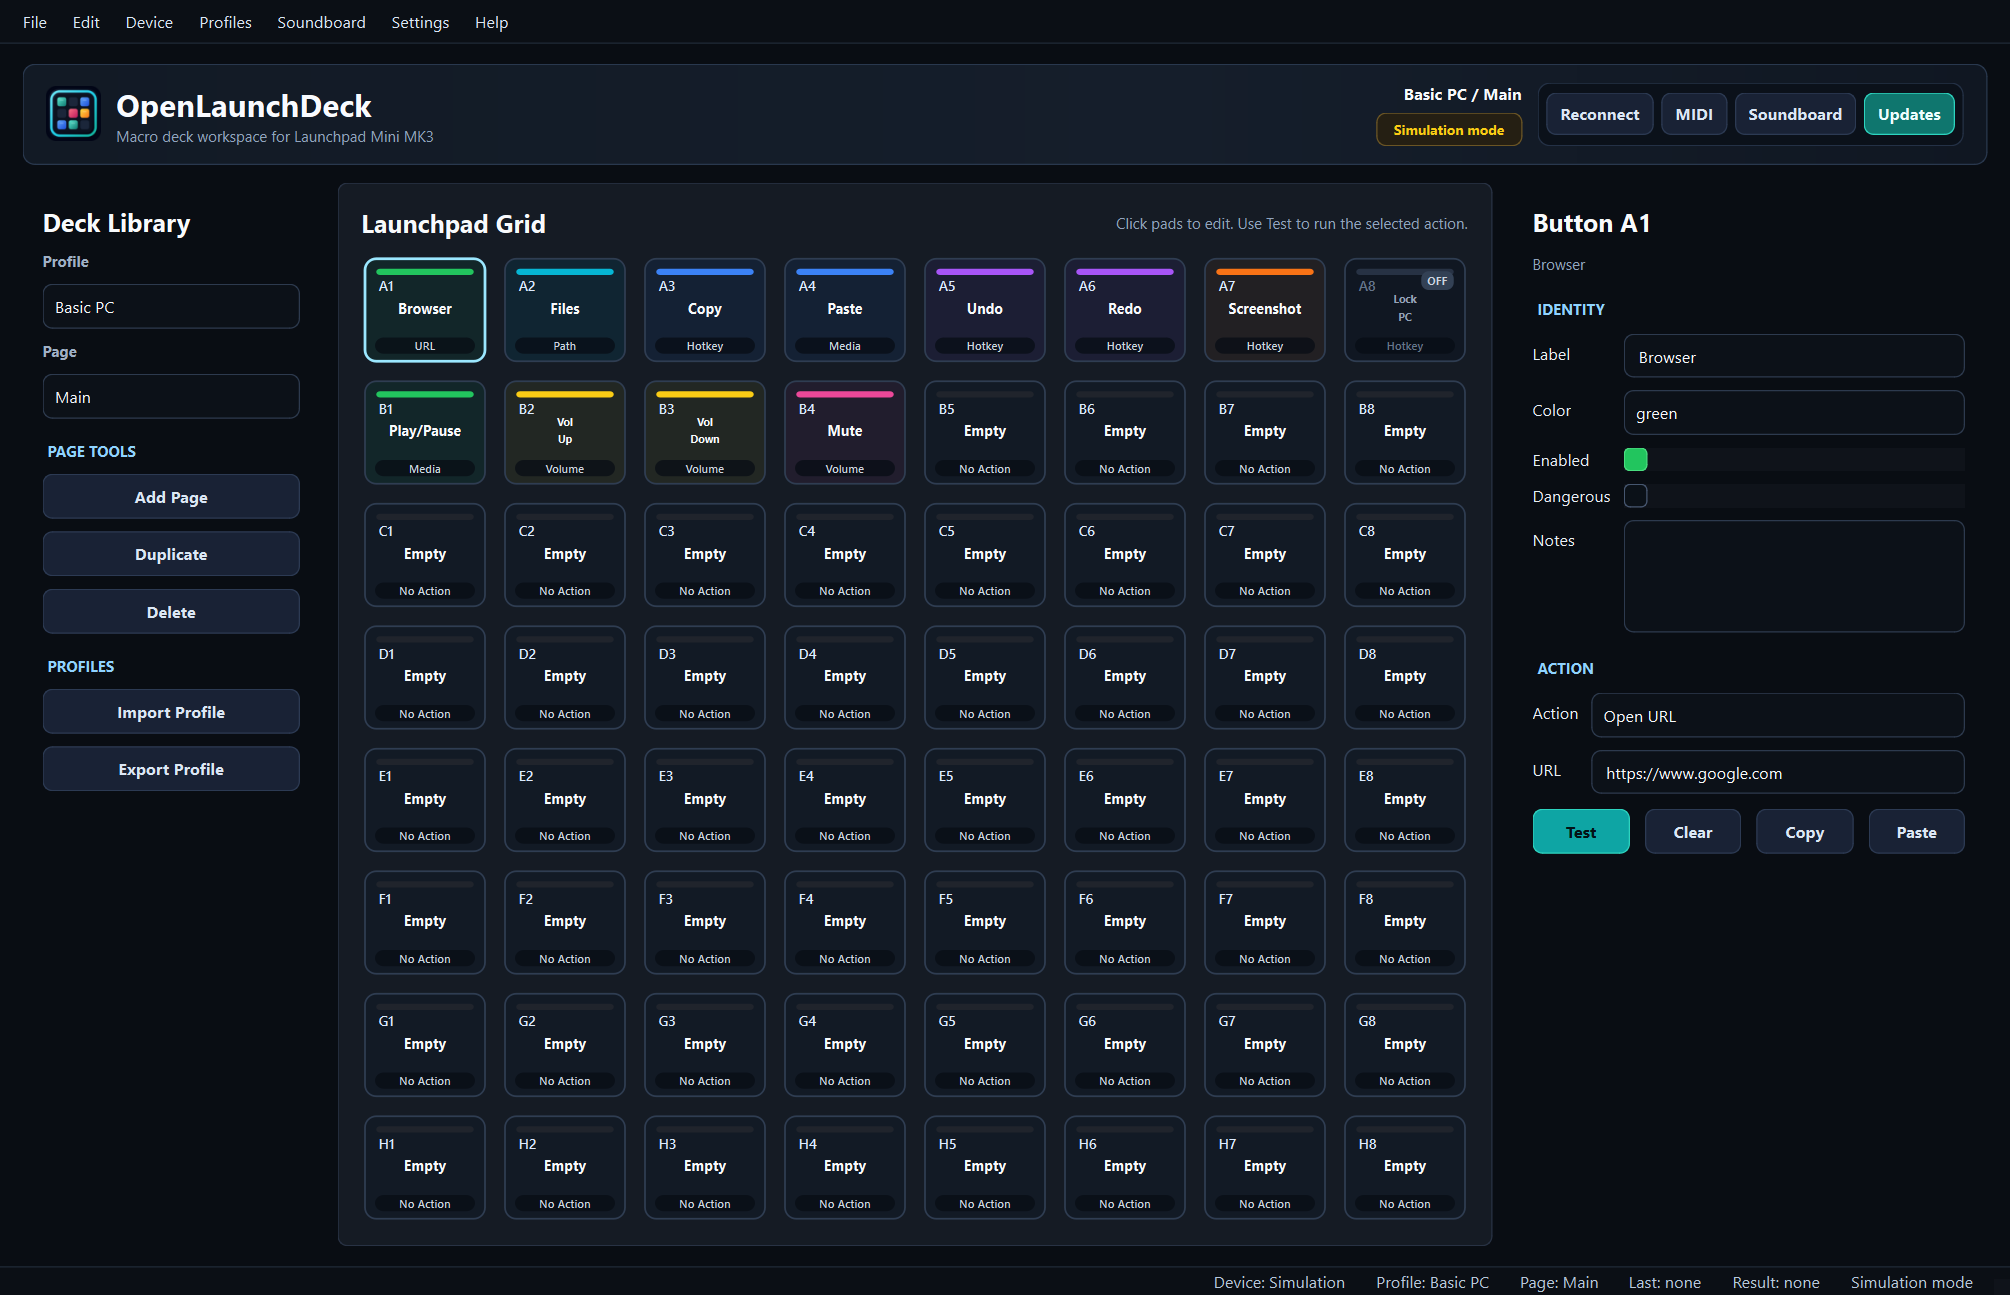
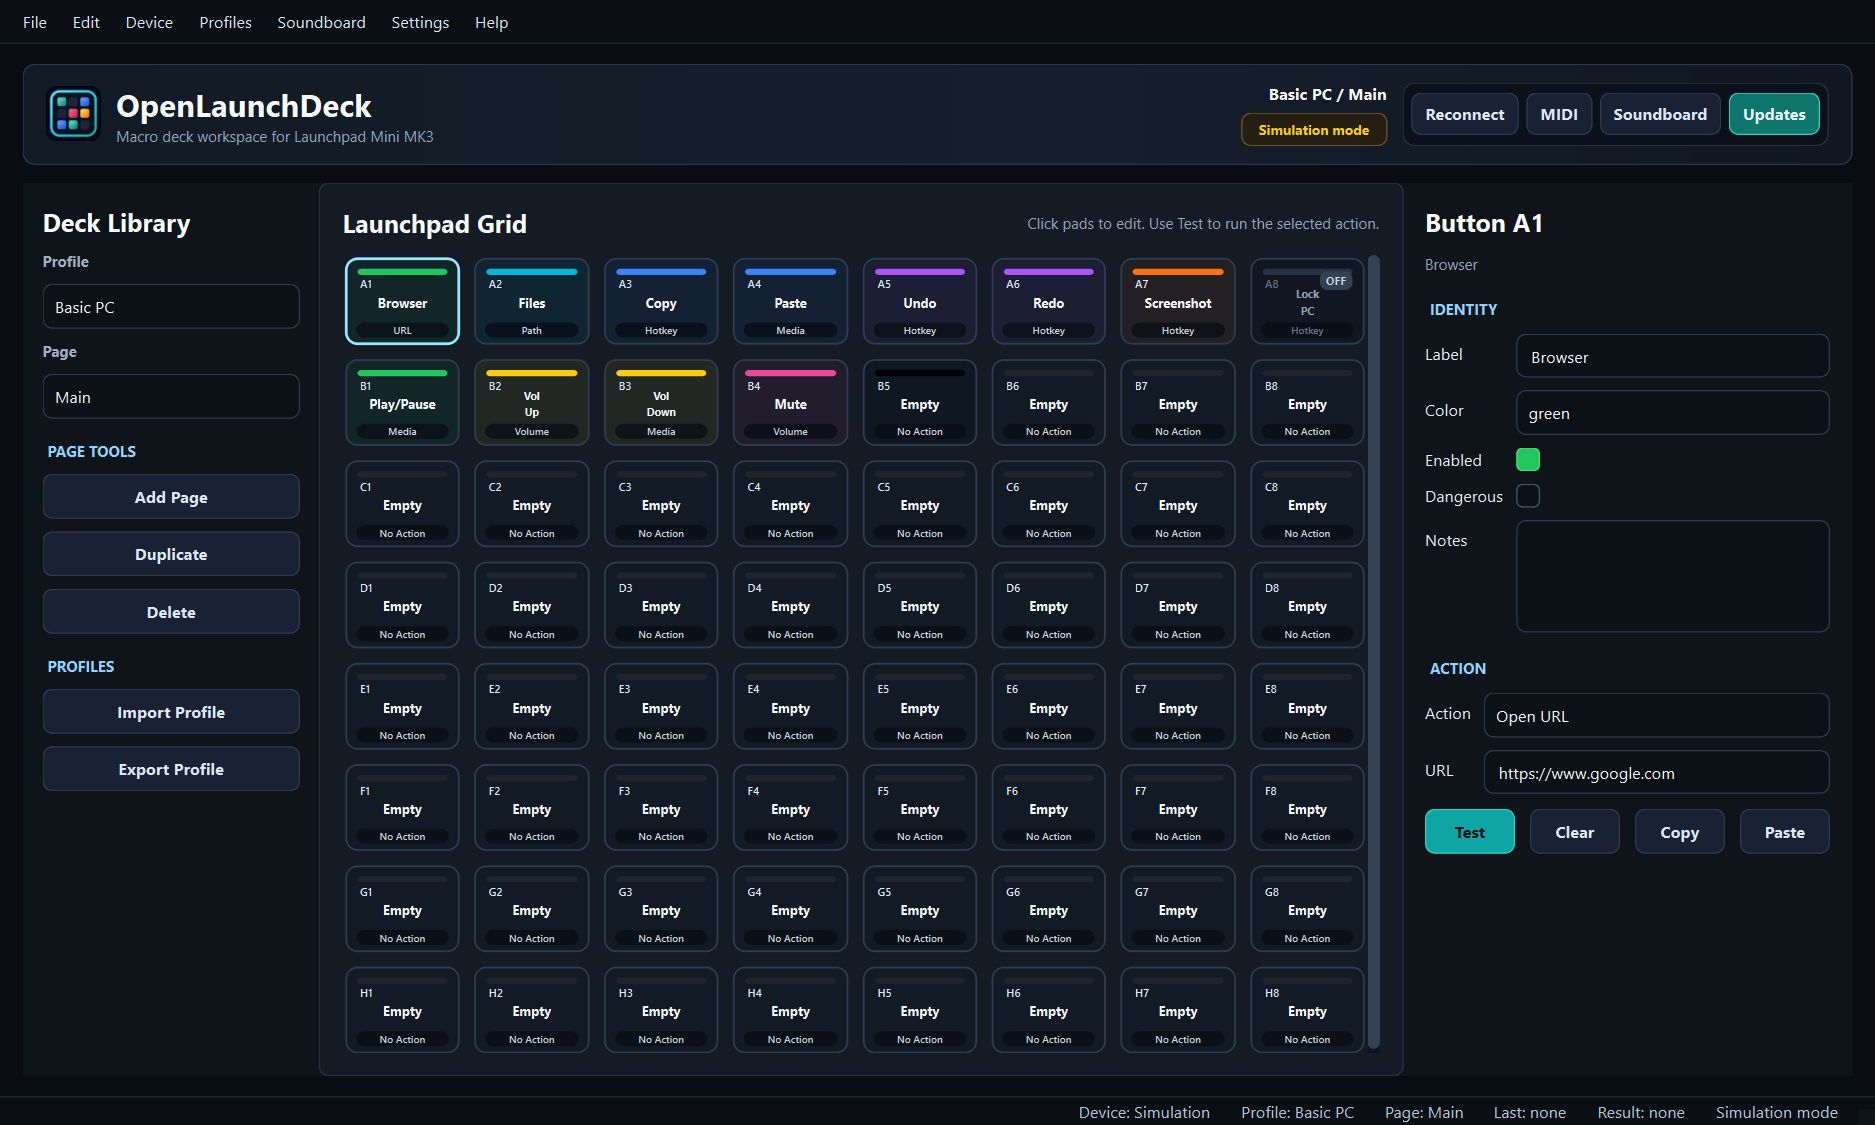
Improve responsive window layout

Changed region(s): [[0.0, 0.0622, 0.9899, 1.0], [0.0, 0.0, 0.2784, 0.0311]]

diff --git a/openlaunchdeck/ui/main_window.py b/openlaunchdeck/ui/main_window.py
@@ -20,6 +20,7 @@ from PySide6.QtWidgets import (
     QMessageBox,
     QPushButton,
     QScrollArea,
+    QSplitter,
     QVBoxLayout,
     QWidget,
 )
@@ -86,6 +87,7 @@ class MainWindow(QMainWindow):
         self.setWindowTitle(f"{APP_NAME} {__version__}")
         self.setWindowIcon(app_icon())
         self.resize(1480, 920)
+        self.setMinimumSize(980, 640)
         self.setStyleSheet(load_theme(self.services.settings_service.settings.theme))
 
         self.services.action_runner.completion_callback = lambda button_id, result: self.action_finished.emit(button_id, result)
@@ -181,42 +183,63 @@ class MainWindow(QMainWindow):
 
         root.addWidget(header)
 
-        layout = QHBoxLayout()
-        layout.setContentsMargins(0, 0, 0, 0)
-        layout.setSpacing(14)
         self.sidebar = ProfileSidebar()
-        self.sidebar.setFixedWidth(238)
+        self.sidebar.setMinimumWidth(190)
+        self.sidebar.setMaximumWidth(320)
+        self.sidebar_scroll = QScrollArea()
+        self.sidebar_scroll.setObjectName("SidebarScroll")
+        self.sidebar_scroll.setWidgetResizable(True)
+        self.sidebar_scroll.setHorizontalScrollBarPolicy(Qt.ScrollBarPolicy.ScrollBarAlwaysOff)
+        self.sidebar_scroll.setWidget(self.sidebar)
+        self.sidebar_scroll.setMinimumWidth(210)
         self.grid = GridWidget()
-        self.grid.set_density(self.services.settings_service.settings.grid_density)
+        self._applied_grid_density = self.services.settings_service.settings.grid_density
+        self.grid.set_density(self._applied_grid_density)
         self.editor = ButtonEditor(self.services.action_registry)
         self.editor_scroll = QScrollArea()
         self.editor_scroll.setObjectName("InspectorScroll")
         self.editor_scroll.setWidgetResizable(True)
         self.editor_scroll.setHorizontalScrollBarPolicy(Qt.ScrollBarPolicy.ScrollBarAlwaysOff)
         self.editor_scroll.setWidget(self.editor)
-        self.editor_scroll.setFixedWidth(382)
+        self.editor_scroll.setMinimumWidth(300)
 
         deck_panel = QFrame()
+        self.deck_panel = deck_panel
         deck_panel.setObjectName("DeckPanel")
+        deck_panel.setMinimumWidth(520)
         deck_layout = QVBoxLayout(deck_panel)
         deck_layout.setContentsMargins(18, 18, 18, 18)
         deck_layout.setSpacing(12)
         deck_header = QHBoxLayout()
         deck_title = QLabel("Launchpad Grid")
         deck_title.setObjectName("PanelTitle")
-        deck_hint = QLabel("Click pads to edit. Use Test to run the selected action.")
-        deck_hint.setObjectName("PanelHint")
+        self.deck_hint = QLabel("Click pads to edit. Use Test to run the selected action.")
+        self.deck_hint.setObjectName("PanelHint")
         deck_header.addWidget(deck_title)
         deck_header.addStretch(1)
-        deck_header.addWidget(deck_hint)
+        deck_header.addWidget(self.deck_hint)
         deck_layout.addLayout(deck_header)
-        deck_layout.addWidget(self.grid, 1)
+        self.grid_scroll = QScrollArea()
+        self.grid_scroll.setObjectName("GridScroll")
+        self.grid_scroll.setWidgetResizable(True)
+        self.grid_scroll.setAlignment(Qt.AlignmentFlag.AlignCenter)
+        self.grid_scroll.setFrameShape(QFrame.Shape.NoFrame)
+        self.grid_scroll.setWidget(self.grid)
+        deck_layout.addWidget(self.grid_scroll, 1)
 
-        layout.addWidget(self.sidebar)
-        layout.addWidget(deck_panel, 1)
-        layout.addWidget(self.editor_scroll)
-        root.addLayout(layout, 1)
+        self.workspace_splitter = QSplitter(Qt.Orientation.Horizontal)
+        self.workspace_splitter.setObjectName("WorkspaceSplitter")
+        self.workspace_splitter.setChildrenCollapsible(False)
+        self.workspace_splitter.addWidget(self.sidebar_scroll)
+        self.workspace_splitter.addWidget(deck_panel)
+        self.workspace_splitter.addWidget(self.editor_scroll)
+        self.workspace_splitter.setStretchFactor(0, 0)
+        self.workspace_splitter.setStretchFactor(1, 1)
+        self.workspace_splitter.setStretchFactor(2, 0)
+        self.workspace_splitter.setSizes([238, 850, 360])
+        root.addWidget(self.workspace_splitter, 1)
         self.setCentralWidget(central)
+        self._apply_responsive_layout()
 
         self.header_reconnect_button.clicked.connect(self.reconnect_device)
         self.header_debug_button.clicked.connect(self.show_midi_debug)
@@ -566,12 +589,50 @@ class MainWindow(QMainWindow):
         dialog = SettingsDialog(self.services.settings_service, self)
         if dialog.exec():
             self.setStyleSheet(load_theme(self.services.settings_service.settings.theme))
-            self.grid.set_density(self.services.settings_service.settings.grid_density)
+            self._apply_responsive_layout()
             self.services.audio_engine.set_global_volume(self.services.settings_service.settings.soundboard_global_volume)
             self.services.audio_engine.set_default_output_device(self.services.settings_service.settings.soundboard_default_output_device)
             self.services.audio_engine.performance_logging_enabled = self.services.settings_service.settings.enable_performance_logging
             self.services.performance_monitor.set_enabled(self.services.settings_service.settings.enable_performance_logging)
             native_acceleration.configure(self.services.settings_service.settings.use_native_acceleration, self.services.logger)
+
+    def resizeEvent(self, event) -> None:
+        super().resizeEvent(event)
+        if hasattr(self, "workspace_splitter"):
+            self._apply_responsive_layout()
+
+    def _apply_responsive_layout(self) -> None:
+        width = self.width()
+        base_density = self.services.settings_service.settings.grid_density
+        if width < 1420:
+            density = "mini"
+        elif width < 1700 and base_density != "compact":
+            density = "compact"
+        else:
+            density = base_density
+        if density != getattr(self, "_applied_grid_density", None):
+            self._applied_grid_density = density
+            self.grid.set_density(density)
+
+        compact_header = width < 1180
+        narrow_header = width < 1080
+        compact_workspace = width < 1350
+        self.deck_hint.setVisible(not compact_header)
+        self.header_profile.setVisible(not compact_header)
+        self.header_mode.setVisible(not narrow_header)
+        self.header_soundboard_button.setText("Sounds" if compact_header else "Soundboard")
+        self.header_reconnect_button.setText("Reconnect" if not narrow_header else "Link")
+        self.sidebar_scroll.setVisible(not compact_workspace)
+
+        if width < 1180:
+            self.sidebar_scroll.setMinimumWidth(180)
+            self.editor_scroll.setMinimumWidth(250)
+            self.deck_panel.setMinimumWidth(360)
+            self.workspace_splitter.setSizes([0, max(560, width - 300), 270])
+        else:
+            self.sidebar_scroll.setMinimumWidth(210)
+            self.editor_scroll.setMinimumWidth(300)
+            self.deck_panel.setMinimumWidth(520)
 
     def show_first_run(self) -> None:
         dialog = SetupWizard(self.services.profile_service, self.services.settings_service, self)

diff --git a/openlaunchdeck/ui/button_cell.py b/openlaunchdeck/ui/button_cell.py
@@ -9,6 +9,7 @@ from ..models.button import ButtonConfig
 
 
 CELL_SIZES = {
+    "mini": QSize(74, 66),
     "compact": QSize(84, 74),
     "comfortable": QSize(102, 88),
     "large": QSize(118, 102),
@@ -177,7 +178,7 @@ class ButtonCell(QWidget):
         painter.drawRoundedRect(strip, 3, 3)
 
         painter.setPen(QColor("#dbeafe") if button.enabled else QColor("#64748b"))
-        id_font = QFont("Segoe UI", 7 if self._density == "compact" else 8, QFont.Weight.DemiBold)
+        id_font = QFont("Segoe UI", 6 if self._density == "mini" else 7 if self._density == "compact" else 8, QFont.Weight.DemiBold)
         painter.setFont(id_font)
         painter.drawText(rect.adjusted(11, 14, -10, -10), Qt.AlignmentFlag.AlignLeft | Qt.AlignmentFlag.AlignTop, button.id)
 
@@ -185,22 +186,23 @@ class ButtonCell(QWidget):
         if badge:
             self._draw_badge(painter, rect, badge)
 
-        title_font = QFont("Segoe UI", 8 if self._density == "compact" else 9 if self._density == "comfortable" else 10, QFont.Weight.Bold)
+        title_font = QFont("Segoe UI", 7 if self._density == "mini" else 8 if self._density == "compact" else 9 if self._density == "comfortable" else 10, QFont.Weight.Bold)
         title_font.setStretch(94)
         painter.setFont(title_font)
         title_color = QColor("#f8fafc") if button.enabled else QColor("#94a3b8")
         painter.setPen(title_color)
-        title_bottom_padding = {"compact": 25, "comfortable": 31, "large": 35}.get(self._density, 31)
-        title_rect = rect.adjusted(7, 28, -7, -title_bottom_padding)
-        self._draw_fitted_center(painter, title_rect, label, minimum_size=7)
+        title_top = {"mini": 25, "compact": 27, "comfortable": 28, "large": 30}.get(self._density, 28)
+        title_bottom_padding = {"mini": 22, "compact": 25, "comfortable": 31, "large": 35}.get(self._density, 31)
+        title_rect = rect.adjusted(7, title_top, -7, -title_bottom_padding)
+        self._draw_fitted_center(painter, title_rect, label, minimum_size=6 if self._density == "mini" else 7)
 
         action_label = ACTION_LABELS.get(action_type, action_type.replace("_", " ").title())
-        action_font = QFont("Segoe UI", 6 if self._density == "compact" else 7, QFont.Weight.DemiBold)
+        action_font = QFont("Segoe UI", 5 if self._density == "mini" else 6 if self._density == "compact" else 7, QFont.Weight.DemiBold)
         painter.setFont(action_font)
-        action_font, metrics = self._fit_font(action_font, action_label, max(18, rect.width() - 20), minimum_size=6)
+        action_font, metrics = self._fit_font(action_font, action_label, max(18, rect.width() - 20), minimum_size=5 if self._density == "mini" else 6)
         painter.setFont(action_font)
         action_text = metrics.elidedText(action_label, Qt.TextElideMode.ElideRight, max(18, rect.width() - 20))
-        pill_height = 12 if self._density == "compact" else 13 if self._density == "comfortable" else 14
+        pill_height = 11 if self._density == "mini" else 12 if self._density == "compact" else 13 if self._density == "comfortable" else 14
         pill_bottom_margin = 4 if self._density == "compact" else 5
         pill = QRect(rect.left() + 8, rect.bottom() - pill_height - pill_bottom_margin, rect.width() - 16, pill_height)
         painter.setPen(Qt.PenStyle.NoPen)

diff --git a/openlaunchdeck/ui/grid_widget.py b/openlaunchdeck/ui/grid_widget.py
@@ -27,7 +27,7 @@ class GridWidget(QWidget):
                 self.cells[button_id] = cell
 
     def set_density(self, density: str) -> None:
-        spacing = {"compact": 7, "comfortable": 10, "large": 12}.get(density, 10)
+        spacing = {"mini": 5, "compact": 7, "comfortable": 10, "large": 12}.get(density, 10)
         if self.layout() is not None:
             self.layout().setSpacing(spacing)
         for cell in self.cells.values():

diff --git a/openlaunchdeck/ui/profile_sidebar.py b/openlaunchdeck/ui/profile_sidebar.py
@@ -23,7 +23,7 @@ class ProfileSidebar(QWidget):
     def __init__(self) -> None:
         super().__init__()
         self.setObjectName("SidebarPanel")
-        self.setSizePolicy(QSizePolicy.Policy.Fixed, QSizePolicy.Policy.Expanding)
+        self.setSizePolicy(QSizePolicy.Policy.Preferred, QSizePolicy.Policy.Expanding)
         layout = QVBoxLayout(self)
         layout.setContentsMargins(16, 18, 16, 18)
         layout.setSpacing(10)

diff --git a/openlaunchdeck/version.py b/openlaunchdeck/version.py
@@ -1,2 +1,2 @@
 APP_NAME = "OpenLaunchDeck"
-__version__ = "0.1.11"
+__version__ = "0.1.12"

diff --git a/CHANGELOG.md b/CHANGELOG.md
@@ -1,5 +1,12 @@
 # Changelog
 
+## 0.1.12
+
+- Improved window resizing with a splitter-based workspace layout.
+- Added responsive narrow-window behavior that keeps the full 8-column Launchpad grid visible.
+- Put the Launchpad grid inside a scrollable deck area for shorter windows.
+- Styled workspace scrollbars so compact windows feel cleaner.
+
 ## 0.1.11
 
 - Added Windows EXE version metadata so Explorer shows OpenLaunchDeck product and file version details.

diff --git a/README.md b/README.md
@@ -121,8 +121,8 @@ When Inno Setup is available, the script builds `dist\installer\OpenLaunchDeckSe
 Every tagged release should publish ready-to-download Windows packages. Push a `v<version>` tag after the version bump is committed:
 
 ```powershell
-git tag v0.1.11
-git push origin v0.1.11
+git tag v0.1.12
+git push origin v0.1.12
 ```
 
 The Release workflow builds and uploads the installer EXE, portable ZIP, and SHA256 checksum files to GitHub Releases. It uses the same build script with CI-specific fast packaging flags so tagged releases spend less time on packaging.